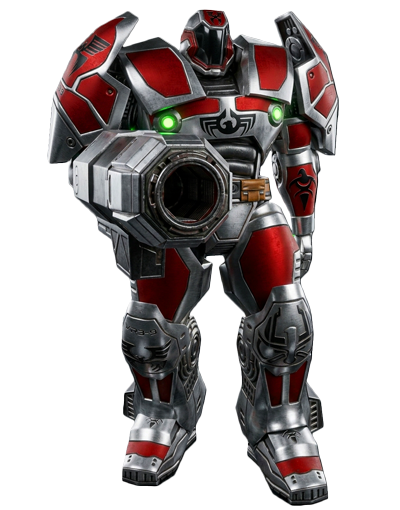
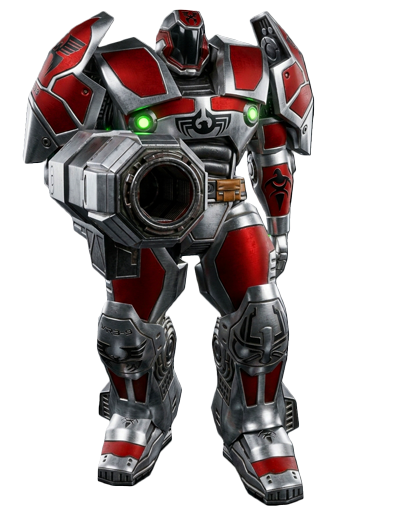
armors 3

diff --git a/assets/css/modern.css b/assets/css/modern.css
@@ -854,6 +854,7 @@ body.has-ticker .footer { padding-bottom: calc(30px + 1rem); }
   transition: background 0.2s;
   position: relative;
   overflow: hidden;
+  background: radial-gradient(ellipse at center, rgba(3,224,163,0.18) 0%, transparent 30%);
 }
 
 .armor-window2 {
@@ -866,6 +867,7 @@ body.has-ticker .footer { padding-bottom: calc(30px + 1rem); }
   transition: background 0.2s;
   position: relative;
   overflow: hidden;
+  background: radial-gradient(ellipse at center, rgba(3,224,163,0.18) 0%, transparent 30%);
 }
 
 